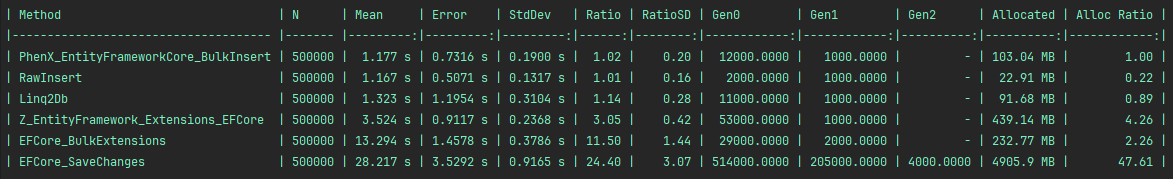
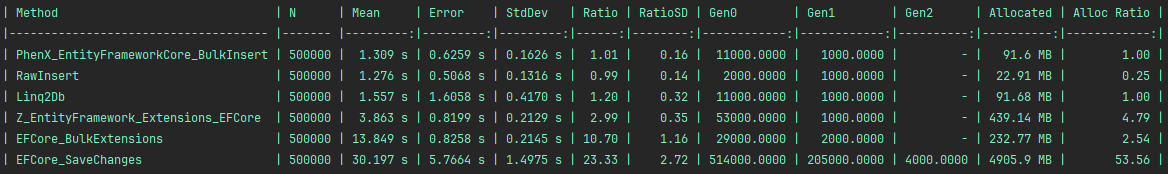
Feature/improve allocations (#49)
* Improve memory allocation thanks to expression trees

* Update benchmark results

* Add benchmark for getters

* Native benchmark more accurate

* Improve naming

diff --git a/tests/PhenX.EntityFrameworkCore.BulkInsert.Benchmark/GetValueComparator.cs b/tests/PhenX.EntityFrameworkCore.BulkInsert.Benchmark/GetValueComparator.cs
@@ -1,0 +1,149 @@
+using System.Linq.Expressions;
+using System.Reflection;
+
+using BenchmarkDotNet.Attributes;
+using BenchmarkDotNet.Engines;
+
+using PhenX.EntityFrameworkCore.BulkInsert.Metadata;
+
+namespace PhenX.EntityFrameworkCore.BulkInsert.Benchmark;
+
+[MemoryDiagnoser]
+[SimpleJob(RunStrategy.ColdStart, launchCount: 1, warmupCount: 0, iterationCount: 10)]
+public partial class GetValueComparator
+{
+    [Params(1_000_000)] public int N;
+
+    private IReadOnlyList<TestEntity> data = [];
+
+    [IterationSetup]
+    public void IterationSetup()
+    {
+        data = Enumerable.Range(1, N).Select(i => new TestEntity
+        {
+            Name = $"Entity{i}",
+            Price = (decimal)(i * 0.1),
+            Identifier = Guid.NewGuid(),
+            NumericEnumValue = (NumericEnum)(i % 2),
+        }).ToList();
+    }
+
+    private static Dictionary<string, Expression<Func<object?, object?>>> Converters = new()
+    {
+        { nameof(TestEntity.NumericEnumValue), v => (int) v},
+    };
+
+    private static readonly PropertyInfo[] PropertyInfos = typeof(TestEntity).GetProperties();
+
+    private static readonly Func<object, object?>[] PropertyInfoGetValueGetters = PropertyInfos
+        .Select<PropertyInfo, Func<object, object?>>(propertyInfo =>
+        {
+            var converter = Converters.TryGetValue(propertyInfo.Name, out var expression)
+                ? expression.Compile()
+                : null;
+
+            if (converter == null)
+            {
+                return propertyInfo.GetValue;
+            }
+
+            return entity => converter(propertyInfo.GetValue(entity));
+        })
+        .ToArray();
+
+    private static readonly Func<object, object?>[] PropertyInfoIlGetters = PropertyInfos
+        .Select<PropertyInfo, Func<object, object?>>(propertyInfo =>
+        {
+            var converter = Converters.TryGetValue(propertyInfo.Name, out var expression)
+                ? expression.Compile()
+                : null;
+
+            var getter = CreateUntypedGetter(propertyInfo, propertyInfo.DeclaringType!, propertyInfo.PropertyType);
+
+            if (converter == null)
+            {
+                return getter;
+            }
+
+            return entity => converter(getter(entity));
+        })
+        .ToArray();
+
+    private static readonly Func<object, object?>[] PropertyAccessorGetters = PropertyInfos
+        .Select<PropertyInfo, Func<object, object?>>(propertyInfo =>
+        {
+            var converter = Converters.TryGetValue(propertyInfo.Name, out var expression)
+                ? expression
+                : null;
+
+            return PropertyAccessor.CreateGetter(propertyInfo, converter);
+        })
+        .ToArray();
+
+    [Benchmark(Baseline = true)]
+    public void Native()
+    {
+        var enumConverter = Converters[nameof(TestEntity.NumericEnumValue)].Compile();
+
+        for (var i = 0; i < data.Count; i++)
+        {
+            var entity = data[i];
+
+            _ = entity.Id;
+            _ = entity.Name;
+            _ = entity.Price;
+            _ = entity.Identifier;
+            _ = enumConverter(entity.NumericEnumValue);
+            _ = entity.CreatedAt;
+            _ = entity.UpdatedAt;
+        }
+    }
+
+    [Benchmark]
+    public void PropertyInfo_GetValue()
+    {
+        for (var i = 0; i < data.Count; i++)
+        {
+            var entity = data[i];
+
+            for (var j = 0; j < PropertyInfoGetValueGetters.Length; j++)
+            {
+                var getter = PropertyInfoGetValueGetters[j];
+
+                _ = getter(entity);
+            }
+        }
+    }
+
+    [Benchmark]
+    public void ExpressionTreeGetter()
+    {
+        for (var i = 0; i < data.Count; i++)
+        {
+            var entity = data[i];
+
+            for (var j = 0; j < PropertyAccessorGetters.Length; j++)
+            {
+                var getter = PropertyAccessorGetters[j];
+
+                _ = getter(entity);
+            }
+        }
+    }
+
+    [Benchmark]
+    public void IlGetter()
+    {
+        for (var i = 0; i < data.Count; i++)
+        {
+            var entity = data[i];
+
+            for (var j = 0; j < PropertyInfoIlGetters.Length; j++)
+            {
+                var getter = PropertyInfoIlGetters[j];
+
+                _ = getter(entity);
+            }
+        }
+    }
+}

diff --git a/src/PhenX.EntityFrameworkCore.BulkInsert/Metadata/PropertyAccessor.cs b/src/PhenX.EntityFrameworkCore.BulkInsert/Metadata/PropertyAccessor.cs
@@ -1,66 +1,53 @@
-using System.Reflection.Emit;
+using System.Linq.Expressions;
 using System.Reflection;
 
 namespace PhenX.EntityFrameworkCore.BulkInsert.Metadata;
 
 internal static class PropertyAccessor
 {
-    public delegate TValue Getter<TSource, TValue>(TSource source);
-
-    public static Getter<object, object?> CreateUntypedGetter(PropertyInfo propertyInfo, Type sourceType, Type valueType)
+    public static Func<object, object?> CreateGetter(PropertyInfo propertyInfo, LambdaExpression? converter = null)
     {
-        var method =
-            typeof(PropertyAccessor).GetMethod(nameof(CreateInternalUntypedGetter), BindingFlags.NonPublic | BindingFlags.Static)!
-                .MakeGenericMethod(sourceType, valueType);
+        ArgumentNullException.ThrowIfNull(propertyInfo);
+        var getMethod = propertyInfo.GetMethod ?? throw new ArgumentException("Property does not have a getter.");
 
-        return (Getter<object, object?>)method.Invoke(null, [propertyInfo])!;
-    }
+        var instanceParam = Expression.Parameter(typeof(object), "instance");
 
-    private static Getter<object, object?> CreateInternalUntypedGetter<TSource, TValue>(PropertyInfo propertyInfo)
-    {
-        var getter = CreateGetter<TSource, TValue>(propertyInfo);
+        // Convert object to the declaring type
+        Expression typedInstance = propertyInfo.DeclaringType!.IsValueType
+            ? Expression.Unbox(instanceParam, propertyInfo.DeclaringType)
+            : Expression.Convert(instanceParam, propertyInfo.DeclaringType);
 
-        return source => getter((TSource)source!);
-    }
+        // Call Getter
+        Expression getterExpression = Expression.Call(typedInstance, getMethod);
 
-    public static Getter<TSource, TValue> CreateGetter<TSource, TValue>(PropertyInfo propertyInfo)
-    {
-        if (!propertyInfo.CanRead)
+        var propertyType = propertyInfo.PropertyType;
+
+        // If the converter is provided, we call it
+        if (converter != null)
         {
-            return x => throw new NotSupportedException();
+            // Validate the converter input type matches property type
+            var converterParamType = converter.Parameters[0].Type;
+            if (!converterParamType.IsAssignableFrom(propertyType) && !propertyType.IsAssignableFrom(converterParamType))
+            {
+                throw new ArgumentException($"Converter input must be assignable from property type ({propertyType} -> {converterParamType})");
+            }
+
+            // If property type != converter param, convert
+            var converterInput = getterExpression;
+            if (converterParamType != propertyType)
+            {
+                converterInput = Expression.Convert(getterExpression, converterParamType);
+            }
+
+            getterExpression = Expression.Invoke(converter, converterInput);
+
+            propertyType = getterExpression.Type;
         }
 
-        var bakingField =
-            propertyInfo.DeclaringType!.GetField($"<{propertyInfo.Name}>k__BackingField",
-                BindingFlags.NonPublic |
-                BindingFlags.Instance);
+        var finalExpression = propertyType.IsValueType
+            ? Expression.Convert(getterExpression, typeof(object))
+            : getterExpression;
 
-        var propertyGetMethod = propertyInfo.GetGetMethod()!;
-
-        var getMethod = new DynamicMethod(propertyGetMethod.Name, typeof(TValue), [typeof(TSource)], true);
-        var getGenerator = getMethod.GetILGenerator();
-
-        // Load this to stack.
-        getGenerator.Emit(OpCodes.Ldarg_0);
-
-        if (bakingField != null && !propertyGetMethod.IsVirtual)
-        {
-            // Get field directly.
-            getGenerator.Emit(OpCodes.Ldfld, bakingField);
-        }
-        else if (propertyGetMethod.IsVirtual)
-        {
-            // Call the virtual property.
-            getGenerator.Emit(OpCodes.Callvirt, propertyGetMethod);
-        }
-        else
-        {
-            // Call the non virtual property.
-            getGenerator.Emit(OpCodes.Call, propertyGetMethod);
-        }
-
-        getGenerator.Emit(OpCodes.Ret);
-
-        return getMethod.CreateDelegate<Getter<TSource, TValue>>();
+        return Expression.Lambda<Func<object, object?>>(finalExpression, instanceParam).Compile();
     }
 }

diff --git a/tests/PhenX.EntityFrameworkCore.BulkInsert.Benchmark/GetValueComparator.IlGetter.cs b/tests/PhenX.EntityFrameworkCore.BulkInsert.Benchmark/GetValueComparator.IlGetter.cs
@@ -1,0 +1,64 @@
+using System.Reflection;
+using System.Reflection.Emit;
+
+namespace PhenX.EntityFrameworkCore.BulkInsert.Benchmark;
+
+public partial class GetValueComparator
+{
+    public static Func<object, object?> CreateUntypedGetter(PropertyInfo propertyInfo, Type sourceType, Type valueType)
+    {
+        var method =
+            typeof(GetValueComparator).GetMethod(nameof(CreateInternalUntypedGetter), BindingFlags.NonPublic | BindingFlags.Static)!
+                .MakeGenericMethod(sourceType, valueType);
+
+        return (Func<object, object?>)method.Invoke(null, [propertyInfo])!;
+    }
+
+    private static Func<object, object?> CreateInternalUntypedGetter<TSource, TValue>(PropertyInfo propertyInfo)
+    {
+        var getter = CreateGetter<TSource, TValue>(propertyInfo);
+
+        return source => getter((TSource)source!);
+    }
+
+    public static Func<TSource, TValue> CreateGetter<TSource, TValue>(PropertyInfo propertyInfo)
+    {
+        if (!propertyInfo.CanRead)
+        {
+            return x => throw new NotSupportedException();
+        }
+
+        var bakingField =
+            propertyInfo.DeclaringType!.GetField($"<{propertyInfo.Name}>k__BackingField",
+                BindingFlags.NonPublic |
+                BindingFlags.Instance);
+
+        var propertyGetMethod = propertyInfo.GetGetMethod()!;
+
+        var getMethod = new DynamicMethod(propertyGetMethod.Name, typeof(TValue), [typeof(TSource)], true);
+        var getGenerator = getMethod.GetILGenerator();
+
+        // Load this to stack.
+        getGenerator.Emit(OpCodes.Ldarg_0);
+
+        if (bakingField != null && !propertyGetMethod.IsVirtual)
+        {
+            // Get field directly.
+            getGenerator.Emit(OpCodes.Ldfld, bakingField);
+        }
+        else if (propertyGetMethod.IsVirtual)
+        {
+            // Call the virtual property.
+            getGenerator.Emit(OpCodes.Callvirt, propertyGetMethod);
+        }
+        else
+        {
+            // Call the non virtual property.
+            getGenerator.Emit(OpCodes.Call, propertyGetMethod);
+        }
+
+        getGenerator.Emit(OpCodes.Ret);
+
+        return getMethod.CreateDelegate<Func<TSource, TValue>>();
+    }
+}

diff --git a/src/PhenX.EntityFrameworkCore.BulkInsert/Metadata/ColumnMetadata.cs b/src/PhenX.EntityFrameworkCore.BulkInsert/Metadata/ColumnMetadata.cs
@@ -1,7 +1,6 @@
 using Microsoft.EntityFrameworkCore;
 using Microsoft.EntityFrameworkCore.Metadata;
 
-using PhenX.EntityFrameworkCore.BulkInsert.Abstractions;
 using PhenX.EntityFrameworkCore.BulkInsert.Dialect;
 using PhenX.EntityFrameworkCore.BulkInsert.Options;
 
@@ -9,7 +8,7 @@ namespace PhenX.EntityFrameworkCore.BulkInsert.Metadata;
 
 internal sealed class ColumnMetadata(IProperty property,  SqlDialectBuilder dialect)
 {
-    private readonly PropertyAccessor.Getter<object, object?> _getter = BuildGetter(property);
+    private readonly Func<object, object?> _getter = BuildGetter(property);
 
     public IProperty Property { get; } = property;
 
@@ -44,7 +43,7 @@ internal sealed class ColumnMetadata(IProperty property,  SqlDialectBuilder dial
         return result;
     }
 
-    private static PropertyAccessor.Getter<object, object?> BuildGetter(IProperty property)
+    private static Func<object, object?> BuildGetter(IProperty property)
     {
         var valueConverter =
             property.GetValueConverter() ??
@@ -52,20 +51,7 @@ internal sealed class ColumnMetadata(IProperty property,  SqlDialectBuilder dial
 
         var propInfo = property.PropertyInfo!;
 
-        var actualGetter =
-            PropertyAccessor.CreateUntypedGetter(
-                propInfo,
-                property.DeclaringType.ClrType,
-                property.ClrType);
-
-        if (valueConverter == null)
-        {
-            return actualGetter;
-        }
-
-        var converter = valueConverter.ConvertToProvider;
-
-        return source => converter(actualGetter(source));
+        return PropertyAccessor.CreateGetter(propInfo, valueConverter?.ConvertToProviderExpression);
     }
 
     private static string GetStoreDefinition(IProperty property)

diff --git a/tests/PhenX.EntityFrameworkCore.BulkInsert.Benchmark/Program.cs b/tests/PhenX.EntityFrameworkCore.BulkInsert.Benchmark/Program.cs
@@ -13,6 +13,10 @@ public class Program
             .Create(DefaultConfig.Instance)
             .WithOptions(ConfigOptions.DisableOptimizationsValidator);
 
+        // Micro benchmark for value getters
+        BenchmarkRunner.Run<GetValueComparator>(config);
+
+        // Library comparison benchmarks
         var comparators = new[]
         {
             typeof(LibComparatorMySql),
